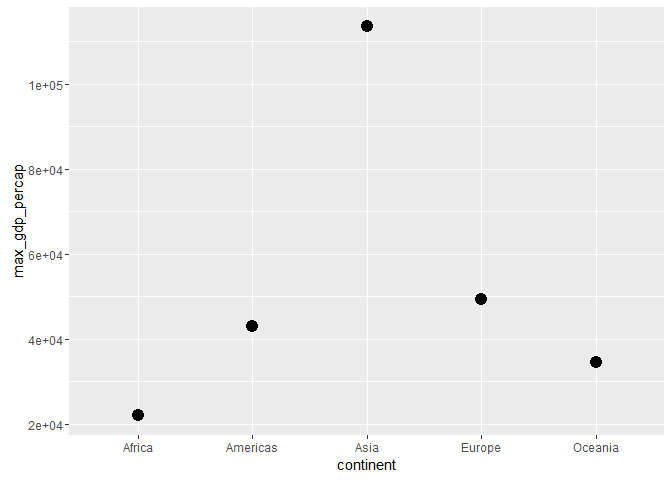
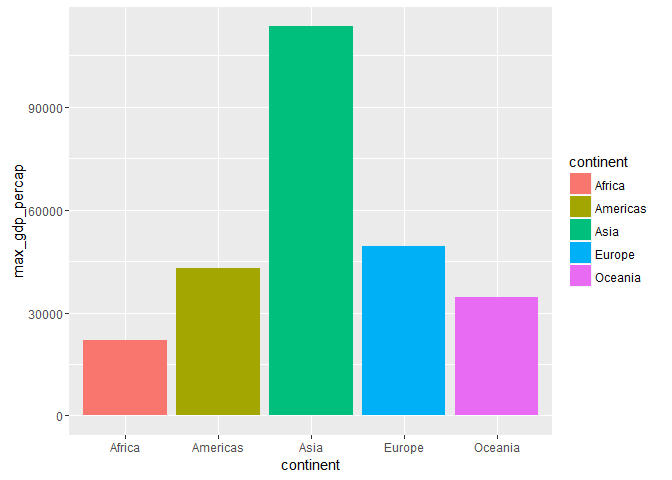
added barplots

diff --git a/hw03_gapminder-ggplot2-dplyr/hw03_gapminder-ggplot2-dplyr.md b/hw03_gapminder-ggplot2-dplyr/hw03_gapminder-ggplot2-dplyr.md
@@ -1,7 +1,7 @@
 Gapminder, ggplot2 and dplyr single table verbs
 ================
 Gokul Raj Suresh Kumar
-2016-10-03
+2016-10-04
 
 Manipulate and Explore Gapminder with dplyr & ggplot2
 =====================================================
@@ -40,17 +40,17 @@ knitr::kable( gdp_data )
 | Oceania   |        10039.5956|          34435.37|
 
 ``` r
-gdp_data %>%
-  ggplot( aes( x = continent , y = min_gdp_percap )) + 
-  geom_point( size = 4 )
+gdp_data %>% 
+  ggplot(aes( x = continent , y = min_gdp_percap , fill = continent)) +
+  geom_bar( stat = "identity")
 ```
 
 ![](hw03_gapminder-ggplot2-dplyr_files/figure-markdown_github/unnamed-chunk-3-1.png)
 
 ``` r
-gdp_data %>%
-  ggplot( aes( x = continent , y = max_gdp_percap )) + 
-  geom_point( size = 4 )
+gdp_data %>% 
+  ggplot(aes( x = continent , y = max_gdp_percap , fill = continent)) +
+  geom_bar( stat = "identity")
 ```
 
 ![](hw03_gapminder-ggplot2-dplyr_files/figure-markdown_github/unnamed-chunk-3-2.png)
